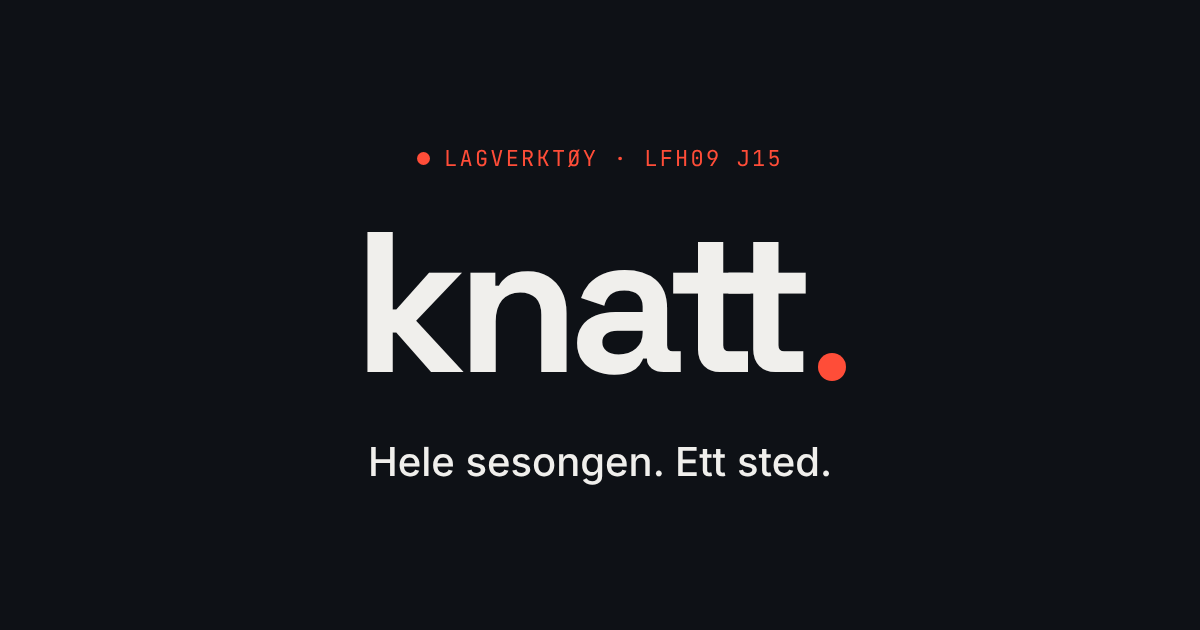
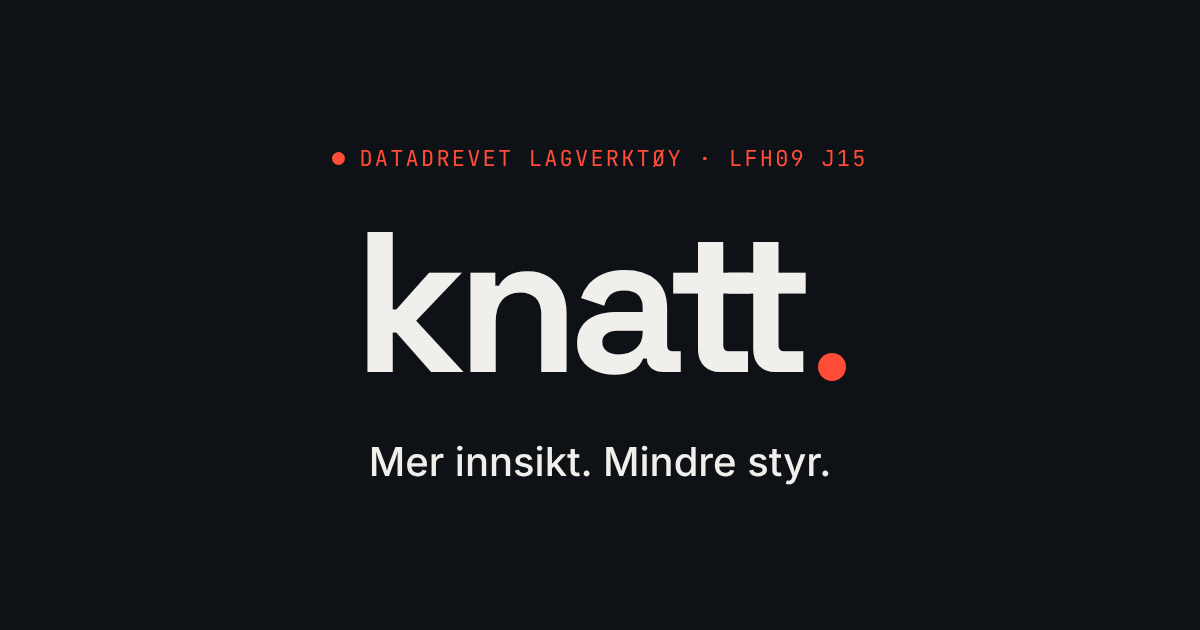
copy: Knatt som datadrevet verktøy for lagdriften og kontinuerlig forbedring
- Hero: «Mer innsikt. Mindre styr.» — data fra kampene, treningene og
  tribunen blir innsikt som utvikler laget og forenkler hverdagen
- «Fra data til innsikt»: kampene (med Tribune), utviklingen,
  motstanderne og hverdagen (Dagen)
- Ny seksjon «Litt bedre for hver kamp»: samle, forstå, handle, forbedre
- Tidslinja: Tribune, serieagenten med kamptropper og etterkamp-synk
- Foreldre i Tribune har ikke tilgang til lagets data (rettet påstanden
  om at foreldre ikke har tilgang)
- Nytt delingsbilde

Claude-Session: https://claude.ai/code/session_01XfQKzvQjTJFnDciHvXKS2K

Changed region(s): [[0.3083, 0.6937, 0.7092, 0.7841], [0.2775, 0.2413, 0.74, 0.2714]]

diff --git a/index.html b/index.html
@@ -3,25 +3,25 @@
 <head>
 <meta charset="UTF-8">
 <meta name="viewport" content="width=device-width, initial-scale=1.0">
-<title>Knatt — hele sesongen, ett sted</title>
-<meta name="description" content="Knatt er lagapparatets verktøy for å drive LFH09 J15 gjennom sesongen: serien, troppen, oppmøtet og motstanderne, samlet ett sted. Bare for trenere og lagledere.">
+<title>Knatt — mer innsikt, mindre styr</title>
+<meta name="description" content="Knatt er et datadrevet verktøy for lagdriften i LFH09 J15: data fra kampene, treningene og tribunen blir innsikt som utvikler laget og gjør hverdagen enklere for lagapparatet.">
 <meta name="theme-color" content="#0E1116">
 
 <!-- Open Graph -->
-<meta property="og:title" content="Knatt — hele sesongen, ett sted">
-<meta property="og:description" content="Lagapparatets verktøy for sesongen: serien, troppen og motstanderne, samlet ett sted.">
+<meta property="og:title" content="Knatt — mer innsikt, mindre styr">
+<meta property="og:description" content="Et datadrevet verktøy for lagdriften: innsikt som utvikler laget og gjør sesongen enklere for lagapparatet.">
 <meta property="og:url" content="https://knatt.app">
 <meta property="og:type" content="website">
 <meta property="og:image" content="https://knatt.app/og-image.png">
 <meta property="og:image:width" content="1200">
 <meta property="og:image:height" content="630">
-<meta property="og:image:alt" content="Knatt — lagverktøy for sesongen">
+<meta property="og:image:alt" content="Knatt — datadrevet lagverktøy">
 <meta property="og:locale" content="nb_NO">
 
 <!-- Twitter Card -->
 <meta name="twitter:card" content="summary_large_image">
-<meta name="twitter:title" content="Knatt — hele sesongen, ett sted">
-<meta name="twitter:description" content="Lagapparatets verktøy for sesongen.">
+<meta name="twitter:title" content="Knatt — mer innsikt, mindre styr">
+<meta name="twitter:description" content="Datadrevet lagverktøy for sesongen.">
 <meta name="twitter:image" content="https://knatt.app/og-image.png">
 
 <!-- Favicon -->
@@ -1265,9 +1265,9 @@ a, button { transition: opacity 0.15s ease; }
   <div class="container">
     <div class="hero-layout">
       <div>
-        <div class="eyebrow" data-in style="--d:0"><span class="dot"></span>Lagverktøy · LFH09 J15 · 2026/27</div>
-        <h1 data-in style="--d:1"><span class="line">Hele sesongen.</span><span class="line">Ett sted<span class="dot"></span></span></h1>
-        <p class="lede" data-in style="--d:2">Knatt er verktøyet lagapparatet bruker for å drive laget gjennom sesongen — serien, troppen, oppmøtet og motstanderne. Det har erstattet regnearket vi hadde før, og brukes bare av trenerne og lagledere.</p>
+        <div class="eyebrow" data-in style="--d:0"><span class="dot"></span>Datadrevet lagverktøy · LFH09 J15 · 2026/27</div>
+        <h1 data-in style="--d:1"><span class="line">Mer innsikt.</span><span class="line">Mindre styr<span class="dot"></span></span></h1>
+        <p class="lede" data-in style="--d:2">Knatt gjør data fra kampene, treningene og tribunen om til innsikt som utvikler laget — og tar bort det manuelle arbeidet i hverdagen til lagapparatet. Et prosjekt for å bli litt bedre for hver kamp.</p>
         <div class="hero-ctas" data-in style="--d:3">
           <a class="btn btn-primary btn-arrow" href="https://knatt.app">Logg inn</a>
           <a class="btn btn-ghost" href="#hva">Hva Knatt gjør</a>
@@ -1309,54 +1309,52 @@ a, button { transition: opacity 0.15s ease; }
 <section class="section" id="hva">
   <div class="container">
     <div class="section-header" data-reveal>
-      <div class="eyebrow"><span class="dot"></span>Hva Knatt gjør</div>
-      <h2>Det vi trenger fra uke til uke.</h2>
-      <p class="section-lede">Knatt dekker det et lagapparat holder styr på gjennom en sesong: hvor vi står, hvem vi møter, hvem som er på trening, hvem som spiller og hvor vi skal. Alt under er i bruk nå.</p>
+      <div class="eyebrow"><span class="dot"></span>Fra data til innsikt</div>
+      <h2>Fire spørsmål vi får svar på.</h2>
+      <p class="section-lede">Data fra handball.no, Min Håndball, Rubic og tribunen samles på ett sted. Knatt gjør dem om til svar lagapparatet kan handle på — før, under og etter kampene. Alt under er i bruk nå.</p>
     </div>
 
     <div class="streams-grid">
       <div class="stream-card stream-sport" data-reveal style="--d:0">
-        <div class="stream-meta">01 · Serien og motstanderne</div>
-        <h3>Hvem møter vi?</h3>
-        <p>Tabellen regnet etter NHFs regler, terminliste og resultater. Hver motstander har en lagprofil med form, mål for og mot og toppscorere, og hver kamp har en «før kamp»-side. Analysen viser sesongen kamp for kamp og stillingen gjennom hver kamp.</p>
+        <div class="stream-meta">01 · Kampene</div>
+        <h3>Hva skjer i kampene?</h3>
+        <p>Kamprapportene hentes automatisk, og stillingen gjennom kampen blir en kurve. Foreldre registrerer skudd fra tribunen — sone, utfall og plassering i målet — så vi ser hvor laget skyter fra og hvor keeperne redder. Før neste kamp står lærdommen fra forrige.</p>
         <div class="stream-tags">
-          <span class="stream-tag">I bruk</span>
-          <span class="stream-tag">Tabell</span>
-          <span class="stream-tag">Før kamp</span>
           <span class="stream-tag">Analyse</span>
+          <span class="stream-tag">Tribune</span>
+          <span class="stream-tag">Før kamp</span>
         </div>
       </div>
 
       <div class="stream-card stream-aktivitet" data-reveal style="--d:1">
-        <div class="stream-meta">02 · Troppen</div>
-        <h3>Hvem spiller?</h3>
-        <p>Troppen med posisjon og draktnummer, hentet fra Rubic og kamprapportene. Kampfordelingen viser hvem som har spilt minst, og belastningen regnes som i regnearket vi hadde før. Spillerutvikling med vurderinger og mål per periode.</p>
+        <div class="stream-meta">02 · Utviklingen</div>
+        <h3>Hvordan utvikler laget seg?</h3>
+        <p>Spillerutvikling med vurderinger og mål for hver periode. Belastning og kampfordeling viser hvem som har spilt mye, og hvem som har spilt minst — i tall, så spilletiden kan fordeles bevisst.</p>
         <div class="stream-tags">
-          <span class="stream-tag">I bruk</span>
-          <span class="stream-tag">Kampfordeling</span>
-          <span class="stream-tag">Belastning</span>
           <span class="stream-tag">Utvikling</span>
+          <span class="stream-tag">Belastning</span>
+          <span class="stream-tag">Kampfordeling</span>
         </div>
       </div>
 
       <div class="stream-card stream-kommunikasjon" data-reveal style="--d:2">
-        <div class="stream-meta">03 · Oppmøte</div>
-        <h3>Hvem kommer?</h3>
-        <p>Oppmøtet importeres fra Rubic, og du ser spiller for spiller hva som endres før noe lagres. Trening, SPU, hospitering og dugnad holdes hver for seg. Andel, trend og «følg opp» står alltid i tall, aldri som årsaker.</p>
+        <div class="stream-meta">03 · Motstanderne</div>
+        <h3>Hvem møter vi?</h3>
+        <p>Tabellen etter NHFs regler og en profil på hver motstander: form, mål for og mot, hvordan de spiller og hvem som scorer mye. Samlet før hver kamp, så forberedelsen tar minutter i stedet for en kveld.</p>
         <div class="stream-tags">
-          <span class="stream-tag">I bruk</span>
-          <span class="stream-tag">Rubic</span>
-          <span class="stream-tag">Følg opp</span>
+          <span class="stream-tag">Tabell</span>
+          <span class="stream-tag">Lagprofil</span>
+          <span class="stream-tag">Slik spiller de</span>
         </div>
       </div>
 
       <div class="stream-card stream-informasjon" data-reveal style="--d:3">
-        <div class="stream-meta">04 · Arenaer og reise</div>
-        <h3>Hvor skal vi?</h3>
-        <p>Alle hallene i serien med adresse, kart og avstand. På dager med flere kamper lager Knatt en ruteplan: når vi må kjøre, kjøretid mellom hallene, oppmøte og hjemkomst for hvert lag. Den sier fra når et lag ikke rekker neste hall.</p>
+        <div class="stream-meta">04 · Hverdagen</div>
+        <h3>Hva skjer i dag?</h3>
+        <p>«Dagen» samler kamper, oppmøte og en sjekkliste for forberedelsen. Oppmøtet kommer fra Rubic, ruteplanen regner ut når vi må kjøre, og serieagenten henter resultater hver kveld — så ingen må taste det inn.</p>
         <div class="stream-tags">
-          <span class="stream-tag">I bruk</span>
-          <span class="stream-tag">Kart</span>
+          <span class="stream-tag">Dagen</span>
+          <span class="stream-tag">Oppmøte</span>
           <span class="stream-tag">Ruteplan</span>
         </div>
       </div>
@@ -1364,36 +1362,36 @@ a, button { transition: opacity 0.15s ease; }
   </div>
 </section>
 
-<!-- ────────────────────────── HVA DEN IKKE ER ────────────────────────── -->
+<!-- ────────────────────────── FORBEDRING ────────────────────────── -->
 <section class="section section-dark">
   <div class="container">
     <div class="section-header" data-reveal>
-      <div class="eyebrow eyebrow-dark"><span class="dot"></span>Det Knatt ikke er</div>
-      <h2>Et lite verktøy med én jobb.</h2>
+      <div class="eyebrow eyebrow-dark"><span class="dot"></span>Kontinuerlig forbedring</div>
+      <h2>Litt bedre for hver kamp.</h2>
     </div>
 
     <div class="hierarchy-grid">
-      <div>
-        <p class="hierarchy-claim">Knatt startet som en idé om én app for hele klubben. Nå er det noe mindre og mer nyttig: <em>verktøyet lagapparatet bruker for å komme gjennom sesongen</em>.</p>
-        <p class="hierarchy-claim" style="font-size: clamp(17px, 2vw, 22px); opacity: 0.85;">Det offisielle bor fortsatt der det bor. Kamper og kamprapporter kommer fra handball.no, treninger planlegges i Rubic, og beskjeder til spillere og foreldre går som før. Knatt henter fra kildene og holder oversikten for oss som planlegger.</p>
+      <div data-reveal>
+        <p class="hierarchy-claim">Knatt er et prosjekt for <em>kontinuerlig forbedring</em> — av lagdriften og av laget. Vi måler, lærer og justerer, og bruker det vi lærer i neste kamp.</p>
+        <p class="hierarchy-claim" style="font-size: clamp(17px, 2vw, 22px); opacity: 0.85;">Verktøyet utvikles på samme måte: i små steg mens sesongen pågår, tatt i bruk med en gang. Det som gir innsikt eller sparer tid, blir stående. Det som ikke gjør det, skrotes.</p>
       </div>
 
       <div class="hierarchy-stack">
         <div class="hierarchy-row" data-reveal style="--d:0">
-          <div class="hierarchy-row-label">Ikke en klubbapp</div>
-          <div class="hierarchy-row-value">Ett lag, LFH09 J15. Ingen andre klubber eller lag</div>
+          <div class="hierarchy-row-label">Samle</div>
+          <div class="hierarchy-row-value">Data fra kildene der de allerede finnes, og fra tribunen under kampen</div>
         </div>
         <div class="hierarchy-row" data-reveal style="--d:1">
-          <div class="hierarchy-row-label">Ikke for alle</div>
-          <div class="hierarchy-row-value">Spillere og foreldre har ikke tilgang, og det er meningen</div>
+          <div class="hierarchy-row-label">Forstå</div>
+          <div class="hierarchy-row-value">Innsikt i kampene, utviklingen, oppmøtet og motstanderne</div>
         </div>
         <div class="hierarchy-row" data-reveal style="--d:2">
-          <div class="hierarchy-row-label">Ikke til salgs</div>
-          <div class="hierarchy-row-value">Ingen abonnement, ingen reklame, ingen planer om det</div>
+          <div class="hierarchy-row-label">Handle</div>
+          <div class="hierarchy-row-value">Bedre kampforberedelse, bevisst fordeling av spilletid og oppfølging i tide</div>
         </div>
-        <div class="hierarchy-row" data-reveal style="--d:3" style="background: rgba(255, 77, 56, 0.08); border-color: rgba(255, 77, 56, 0.25);">
-          <div class="hierarchy-row-label" style="color: var(--glod); opacity: 1;">Det det er</div>
-          <div class="hierarchy-row-value">Serien, troppen, oppmøtet og motstanderne, samlet for trenerne og lagledere</div>
+        <div class="hierarchy-row" data-reveal style="--d:3; background: rgba(255, 77, 56, 0.08); border-color: rgba(255, 77, 56, 0.25);">
+          <div class="hierarchy-row-label" style="color: var(--glod); opacity: 1;">Forbedre</div>
+          <div class="hierarchy-row-value">Lærdommen fra forrige kamp står klar før den neste</div>
         </div>
       </div>
     </div>
@@ -1411,7 +1409,7 @@ a, button { transition: opacity 0.15s ease; }
       </div>
       <div class="navnet-story" data-reveal>
         <p>Knatt henter navnet sitt fra <em>knattleikr</em> — et populært, men beinhardt lag- og ballspill fra vikingtidens Island. Reglene har gått tapt i historien, men de islandske sagaene forteller om et spill som krevde styrke, hurtighet og hode på samme tid: rå fysikk satt i system.</p>
-        <p>Det er den balansen vi er ute etter. Knatt gir oss som driver laget struktur og oversikt, slik at mer av tiden går til det som skjer på banen.</p>
+        <p>Det er den balansen vi er ute etter. Knatt gir oss som driver laget struktur, oversikt og innsikt, slik at mer av tiden går til det som skjer på banen.</p>
         <p class="navnet-close">Tusen år senere er ideen den samme. Mindre tid på det rundt spillet. Mer tid på spillet selv.</p>
       </div>
     </div>
@@ -1430,7 +1428,7 @@ a, button { transition: opacity 0.15s ease; }
     <div class="trust-claims">
       <div class="trust-claim" data-reveal style="--d:0">
         <div class="trust-claim-mark">✓</div>
-        <div class="trust-claim-text"><strong>Gjenbruk før registrering.</strong> Terminlister, resultater og kamprapporter hentes fra kildene der de allerede er publisert, i stedet for å registreres på nytt.</div>
+        <div class="trust-claim-text"><strong>Gjenbruk før registrering.</strong> Terminlister, resultater, kamprapporter og kamptropper hentes fra kildene der de allerede finnes, i stedet for å registreres på nytt.</div>
       </div>
       <div class="trust-claim" data-reveal style="--d:1">
         <div class="trust-claim-mark">✓</div>
@@ -1442,7 +1440,7 @@ a, button { transition: opacity 0.15s ease; }
       </div>
       <div class="trust-claim" data-reveal style="--d:3">
         <div class="trust-claim-mark">✓</div>
-        <div class="trust-claim-text"><strong>Lagret i Europa.</strong> Dataene lagres på infrastruktur i Europa, og bare lagapparatet har tilgang.</div>
+        <div class="trust-claim-text"><strong>Lagret i Europa.</strong> Dataene lagres på infrastruktur i Europa. Bare lagapparatet ser lagets data — foreldre som registrerer fra tribunen, har ikke tilgang til dem.</div>
       </div>
     </div>
   </div>
@@ -1460,23 +1458,29 @@ a, button { transition: opacity 0.15s ease; }
     <div class="roadmap"><div class="roadmap-fill" aria-hidden="true"></div>
       <div class="roadmap-item current" data-reveal style="--d:0">
         <span class="roadmap-when">I bruk</span>
-        <h3 class="roadmap-what">Serien, troppen, oppmøtet og arenaene</h3>
-        <p class="roadmap-detail">Tabell og motstanderprofiler, kampfordeling og belastning, oppmøte fra Rubic, spillerutvikling, analyse, hallene og ruteplan.</p>
+        <h3 class="roadmap-what">Kjernen i lagdriften</h3>
+        <p class="roadmap-detail">Serien og motstanderprofiler, analyse, troppen, kampfordeling og belastning, spillerutvikling, oppmøte fra Rubic, arenaer og ruteplan — og «Dagen» som samler alt for én dag.</p>
       </div>
 
       <div class="roadmap-item current" data-reveal style="--d:1">
         <span class="roadmap-when">I bruk</span>
         <h3 class="roadmap-what">Serieagenten</h3>
-        <p class="roadmap-detail">Henter resultater og kamprapporter fra handball.no hver kveld og kontrollerer dem mot tabellen. Det den ikke kan kontrollere selv, blir et forslag noen i lagapparatet godkjenner. Den sletter aldri noe.</p>
+        <p class="roadmap-detail">Henter resultater, kamprapporter og kamptropper fra handball.no og Min Håndball, og kontrollerer dem. Kamprapporten er på plass fem minutter etter kampslutt. Det den ikke kan kontrollere selv, blir en sak lagapparatet ser på.</p>
       </div>
 
       <div class="roadmap-item current" data-reveal style="--d:2">
-        <span class="roadmap-when">Nå</span>
-        <h3 class="roadmap-what">Knatt på iPhone, iPad og Mac</h3>
-        <p class="roadmap-detail">En egen app med Face ID-innlogging, under testing via TestFlight.</p>
+        <span class="roadmap-when">Nytt</span>
+        <h3 class="roadmap-what">Knatt Tribune</h3>
+        <p class="roadmap-detail">Foreldre registrerer skudd fra tribunen med én hånd. Flere registreringer av samme skudd telles én gang, og målene i kamprapporten er fasit. Resultatet er skuddkart, keeperstatistikk og lærdom før neste kamp.</p>
       </div>
 
-      <div class="roadmap-item future" data-reveal style="--d:3">
+      <div class="roadmap-item current" data-reveal style="--d:3">
+        <span class="roadmap-when">Under testing</span>
+        <h3 class="roadmap-what">Knatt på iPhone, iPad og Mac</h3>
+        <p class="roadmap-detail">En egen app med Face ID-innlogging, via TestFlight.</p>
+      </div>
+
+      <div class="roadmap-item future" data-reveal style="--d:4">
         <span class="roadmap-when">Neste</span>
         <h3 class="roadmap-what">Scoutingnotat før kamp</h3>
         <p class="roadmap-detail">Et kort notat om hver kommende motstander, laget fra tall for hele laget.</p>
@@ -1495,9 +1499,9 @@ a, button { transition: opacity 0.15s ease; }
 
     <div class="founder-card" data-reveal>
       <div class="founder-eyebrow">Samuel Andersen · trener, LFH09 J15</div>
-      <h3>«Jeg ville ha hele sesongen ett sted, ikke spredt over et regneark, handball.no og hukommelsen.»</h3>
+      <h3>«Jeg ville bruke dataene vi allerede har til å gjøre laget bedre — ikke bruke kveldene på å samle dem.»</h3>
       <p>Jeg trener J2011-jentene i LFH09 Lillehammer Fåberg, og har vært både den som planlegger og den som glemmer å sjekke gruppechatten.</p>
-      <p>Knatt er verktøyet vi i lagapparatet bruker gjennom sesongen. Det lages for oss, og blir bare så stort som vi trenger.</p>
+      <p>Knatt er et prosjekt for å bli litt bedre for hver kamp, både som lag og som lagapparat. Det lages for oss, og blir bare så stort som vi trenger.</p>
     </div>
   </div>
 </section>
@@ -1524,7 +1528,7 @@ a, button { transition: opacity 0.15s ease; }
     <div class="footer-grid">
       <div class="footer-brand">
         <a class="logo" href="/">knatt<span class="dot"></span></a>
-        <p>Lagverktøy for LFH09 J15 — serien, troppen, oppmøtet og motstanderne gjennom sesongen. Bygd i Lillehammer.</p>
+        <p>Datadrevet lagverktøy for LFH09 J15 — innsikt som utvikler laget og gjør sesongen enklere. Bygd i Lillehammer.</p>
       </div>
 
       <div class="footer-col">

diff --git a/personvern/index.html b/personvern/index.html
@@ -130,7 +130,7 @@ h1 .dot {
     <div class="eyebrow"><span class="dot"></span>Knatt Sesong</div>
     <h1>Personvern<span class="dot"></span></h1>
     <p class="lede">Knatt gjenbruker data som allerede ligger offentlig tilgjengelig, og produserer egne data bare der laget trenger det.</p>
-    <p class="body-text">Vi følger prinsippene for personvern og bruker dataminimering for å unngå å behandle personopplysninger vi ikke trenger. Det vi lager selv, sikres i Knatts plattform med tekniske tiltak, og dataene lagres på infrastruktur i Europa. Bare lagapparatet i LFH09 J15 har tilgang.</p>
+    <p class="body-text">Vi følger prinsippene for personvern og bruker dataminimering for å unngå å behandle personopplysninger vi ikke trenger. Det vi lager selv, sikres i Knatts plattform med tekniske tiltak, og dataene lagres på infrastruktur i Europa. Bare lagapparatet i LFH09 J15 ser lagets data. Foreldre som registrerer skudd fra tribunen i Knatt Tribune, har egen innlogging og ser bare det som trengs for å registrere.</p>
     <div class="contact">
       Har du personvern-spørsmål allerede nå? Skriv til <a href="mailto:samuel@knatt.app">samuel@knatt.app</a>.
     </div>

diff --git a/sikkerhet/index.html b/sikkerhet/index.html
@@ -129,7 +129,7 @@ h1 .dot {
   <div class="container">
     <div class="eyebrow"><span class="dot"></span>Knatt Sesong</div>
     <h1>Sikkerhet<span class="dot"></span></h1>
-    <p class="lede">Data i Knatt sikres med tekniske tiltak, og bare lagapparatet har tilgang.</p>
+    <p class="lede">Data i Knatt sikres med tekniske tiltak, og bare lagapparatet ser lagets data.</p>
     <p class="body-text">Tilgangen styres i databasen, innloggingen er uten passord, og endringer får et revisjonsspor. Dataene lagres på infrastruktur i Europa.</p>
     <div class="contact">
       Har du sikkerhetsspørsmål allerede nå? Skriv til <a href="mailto:samuel@knatt.app">samuel@knatt.app</a>.
